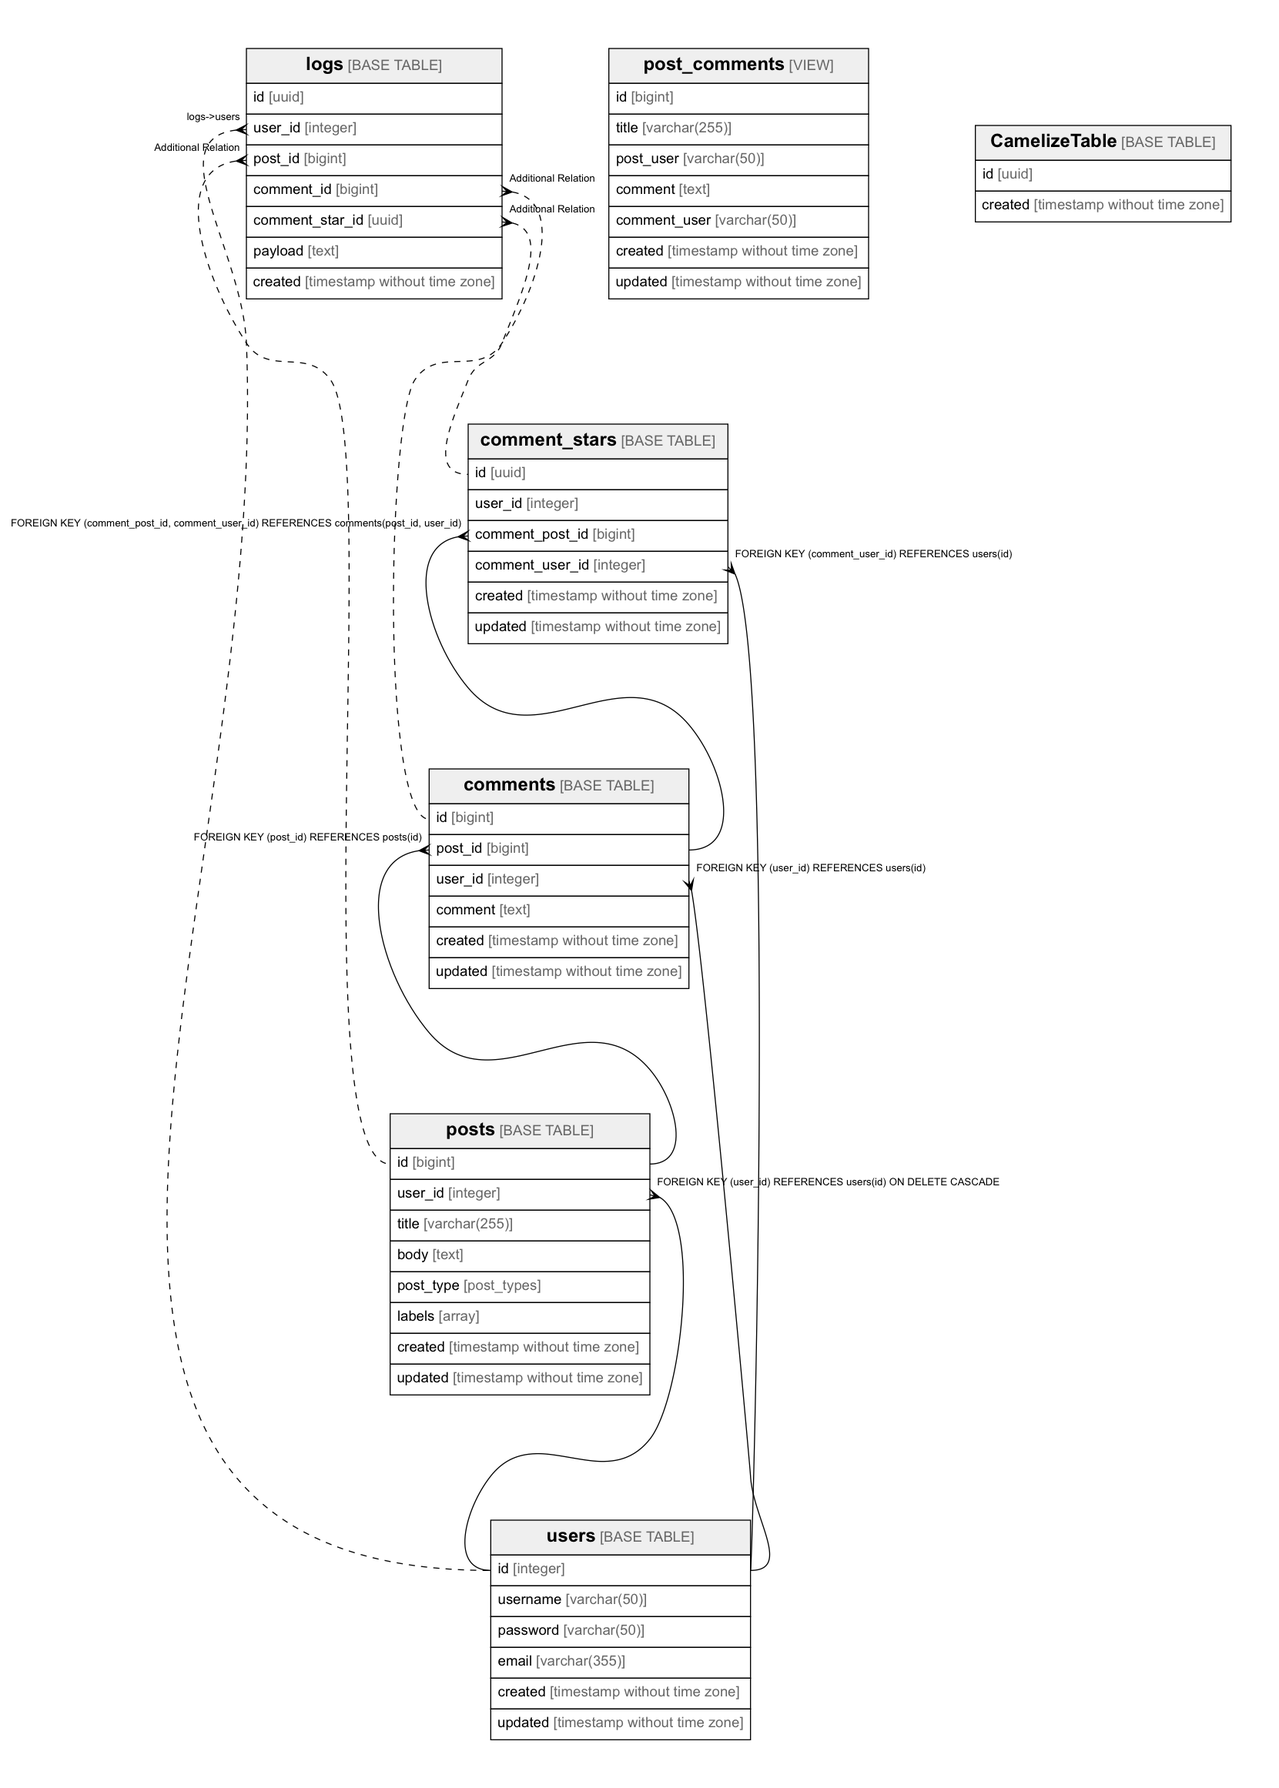
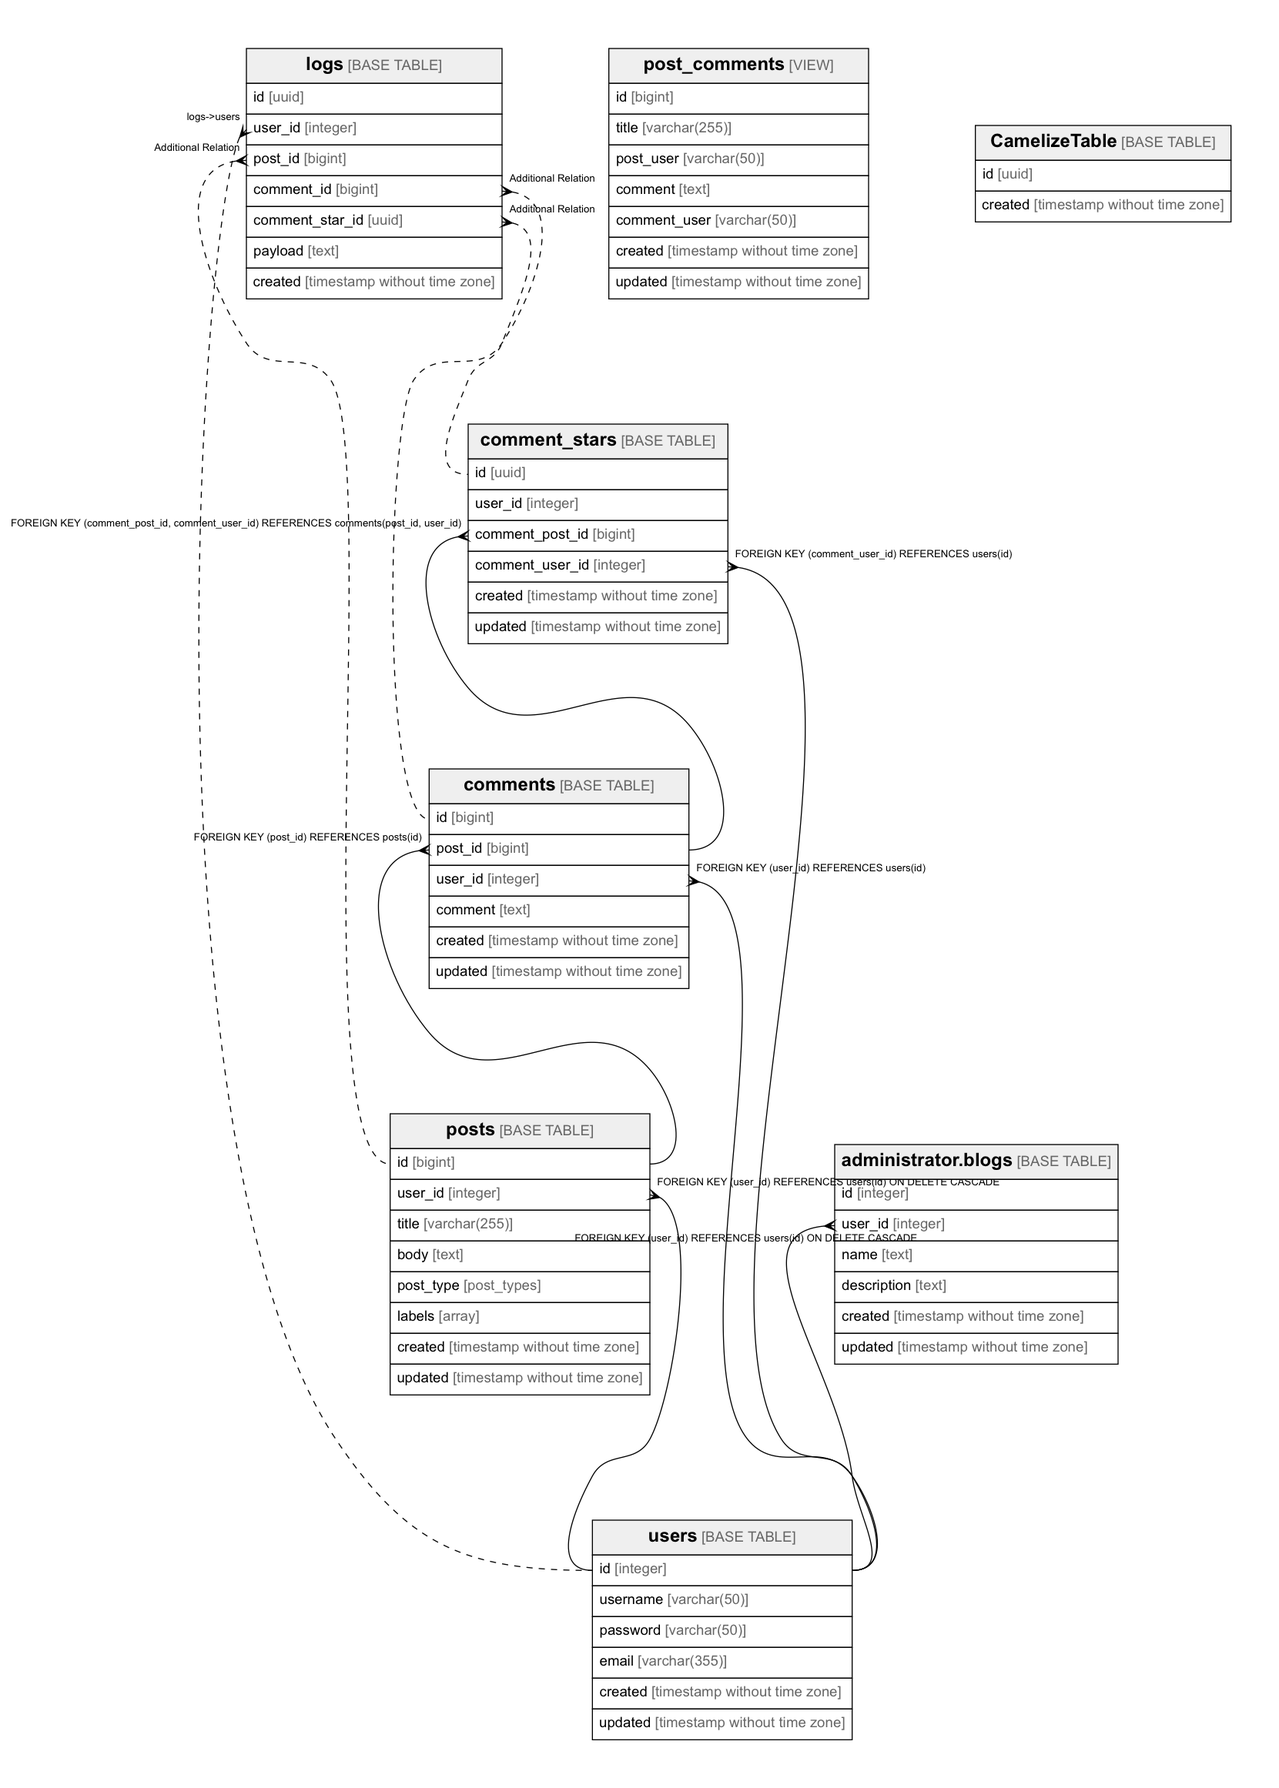
Support PostgreSQL non-default schema
Fix #28

Changed region(s): [[0.3685, 0.8368, 0.6755, 0.9918], [0.522, 0.6199, 0.8597, 0.7749], [0.5834, 0.8059, 0.6141, 0.8988]]

diff --git a/output/dot/templates.go b/output/dot/templates.go
@@ -6,24 +6,24 @@ import (
 	"github.com/jessevdk/go-assets"
 )
 
-var _Assets5bd148e6149bb9adcdddfcf8cc46d6e3047dbe26 = "digraph {{ .Table.Name }} {\n  // Config\n  graph [rankdir=TB, layout=dot, fontname=\"Arial\"];\n  node [shape=record, fontsize=14, margin=0.6, fontname=\"Arial\"];\n  edge [fontsize=10, labelfloat=false, splines=none, fontname=\"Arial\"];\n\n  // Tables\n  {{ .Table.Name }} [shape=none, label=<<table border=\"3\" cellborder=\"1\" cellspacing=\"0\" cellpadding=\"6\">\n                 <tr><td bgcolor=\"#EFEFEF\"><font face=\"Arial Bold\" point-size=\"18\">{{ .Table.Name | html }}</font> <font color=\"#666666\">[{{ .Table.Type | html }}]</font></td></tr>\n                 {{- range $ii, $c := .Table.Columns }}\n                 <tr><td port=\"{{ $c.Name | html }}\" align=\"left\">{{ $c.Name | html }} <font color=\"#666666\">[{{ $c.Type }}]</font></td></tr>\n                 {{- end }}\n              </table>>];\n  {{- range $i, $t := .Tables }}\n  {{ $t.Name }} [shape=none, label=<<table border=\"0\" cellborder=\"1\" cellspacing=\"0\" cellpadding=\"6\">\n                 <tr><td bgcolor=\"#EFEFEF\"><font face=\"Arial Bold\" point-size=\"18\">{{ $t.Name | html }}</font> <font color=\"#666666\">[{{ $t.Type | html }}]</font></td></tr>\n                 {{- range $ii, $c := $t.Columns }}\n                 <tr><td port=\"{{ $c.Name | html }}\" align=\"left\">{{ $c.Name | html }} <font color=\"#666666\">[{{ $c.Type | html }}]</font></td></tr>\n                 {{- end }}\n              </table>>];\n  {{- end }}\n\n  // Relations\n  {{- range $i, $r := .Relations }}\n  {{ $r.Table.Name }}:{{ $c := index $r.Columns 0 }}{{ $c.Name }} -> {{ $r.ParentTable.Name }}:{{ $pc := index $r.ParentColumns 0 }}{{ $pc.Name }} [dir=back, arrowtail=crow, {{ if $r.IsAdditional }}style =\"dashed\",{{ end }} taillabel=<<table cellpadding=\"5\" border=\"0\" cellborder=\"0\"><tr><td>{{ $r.Def | html }}</td></tr></table>>];\n  {{- end }}\n}\n"
-var _Assets21532ae17ad95976ac467eeaeab81f2bb1d537e4 = "digraph \"{{ .Schema.Name }}\" {\n  // Config\n  graph [rankdir=TB, layout=dot, fontname=\"Arial\"];\n  node [shape=record, fontsize=14, margin=0.6, fontname=\"Arial\"];\n  edge [fontsize=10, labelfloat=false, splines=none, fontname=\"Arial\"];\n\n  // Tables\n  {{- range $i, $t := .Schema.Tables }}\n  {{ $t.Name }} [shape=none, label=<<table border=\"0\" cellborder=\"1\" cellspacing=\"0\" cellpadding=\"6\">\n                 <tr><td bgcolor=\"#EFEFEF\"><font face=\"Arial Bold\" point-size=\"18\">{{ $t.Name | html }}</font> <font color=\"#666666\">[{{ $t.Type | html }}]</font></td></tr>\n                 {{- range $ii, $c := $t.Columns }}\n                 <tr><td port=\"{{ $c.Name | html }}\" align=\"left\">{{ $c.Name | html }} <font color=\"#666666\">[{{ $c.Type | html }}]</font></td></tr>\n                 {{- end }}\n              </table>>];\n  {{- end }}\n\n  // Relations\n  {{- range $j, $r := .Schema.Relations }}\n  {{ $r.Table.Name }}:{{ $c := index $r.Columns 0 }}{{ $c.Name }} -> {{ $r.ParentTable.Name }}:{{ $pc := index $r.ParentColumns 0 }}{{ $pc.Name }} [dir=back, arrowtail=crow, {{ if $r.IsAdditional }}style=\"dashed\",{{ end }} taillabel=<<table cellpadding=\"5\" border=\"0\" cellborder=\"0\"><tr><td>{{ $r.Def | html }}</td></tr></table>>];\n  {{- end }}\n}\n"
+var _Assets21532ae17ad95976ac467eeaeab81f2bb1d537e4 = "digraph \"{{ .Schema.Name }}\" {\n  // Config\n  graph [rankdir=TB, layout=dot, fontname=\"Arial\"];\n  node [shape=record, fontsize=14, margin=0.6, fontname=\"Arial\"];\n  edge [fontsize=10, labelfloat=false, splines=none, fontname=\"Arial\"];\n\n  // Tables\n  {{- range $i, $t := .Schema.Tables }}\n  \"{{ $t.Name }}\" [shape=none, label=<<table border=\"0\" cellborder=\"1\" cellspacing=\"0\" cellpadding=\"6\">\n                 <tr><td bgcolor=\"#EFEFEF\"><font face=\"Arial Bold\" point-size=\"18\">{{ $t.Name | html }}</font> <font color=\"#666666\">[{{ $t.Type | html }}]</font></td></tr>\n                 {{- range $ii, $c := $t.Columns }}\n                 <tr><td port=\"{{ $c.Name | html }}\" align=\"left\">{{ $c.Name | html }} <font color=\"#666666\">[{{ $c.Type | html }}]</font></td></tr>\n                 {{- end }}\n              </table>>];\n  {{- end }}\n\n  // Relations\n  {{- range $j, $r := .Schema.Relations }}\n  \"{{ $r.Table.Name }}\":{{ $c := index $r.Columns 0 }}{{ $c.Name }} -> \"{{ $r.ParentTable.Name }}\":{{ $pc := index $r.ParentColumns 0 }}{{ $pc.Name }} [dir=back, arrowtail=crow, {{ if $r.IsAdditional }}style=\"dashed\",{{ end }} taillabel=<<table cellpadding=\"5\" border=\"0\" cellborder=\"0\"><tr><td>{{ $r.Def | html }}</td></tr></table>>];\n  {{- end }}\n}\n"
+var _Assets5bd148e6149bb9adcdddfcf8cc46d6e3047dbe26 = "digraph \"{{ .Table.Name }}\" {\n  // Config\n  graph [rankdir=TB, layout=dot, fontname=\"Arial\"];\n  node [shape=record, fontsize=14, margin=0.6, fontname=\"Arial\"];\n  edge [fontsize=10, labelfloat=false, splines=none, fontname=\"Arial\"];\n\n  // Tables\n  \"{{ .Table.Name }}\" [shape=none, label=<<table border=\"3\" cellborder=\"1\" cellspacing=\"0\" cellpadding=\"6\">\n                 <tr><td bgcolor=\"#EFEFEF\"><font face=\"Arial Bold\" point-size=\"18\">{{ .Table.Name | html }}</font> <font color=\"#666666\">[{{ .Table.Type | html }}]</font></td></tr>\n                 {{- range $ii, $c := .Table.Columns }}\n                 <tr><td port=\"{{ $c.Name | html }}\" align=\"left\">{{ $c.Name | html }} <font color=\"#666666\">[{{ $c.Type }}]</font></td></tr>\n                 {{- end }}\n              </table>>];\n  {{- range $i, $t := .Tables }}\n  \"{{ $t.Name }}\" [shape=none, label=<<table border=\"0\" cellborder=\"1\" cellspacing=\"0\" cellpadding=\"6\">\n                 <tr><td bgcolor=\"#EFEFEF\"><font face=\"Arial Bold\" point-size=\"18\">{{ $t.Name | html }}</font> <font color=\"#666666\">[{{ $t.Type | html }}]</font></td></tr>\n                 {{- range $ii, $c := $t.Columns }}\n                 <tr><td port=\"{{ $c.Name | html }}\" align=\"left\">{{ $c.Name | html }} <font color=\"#666666\">[{{ $c.Type | html }}]</font></td></tr>\n                 {{- end }}\n              </table>>];\n  {{- end }}\n\n  // Relations\n  {{- range $i, $r := .Relations }}\n  \"{{ $r.Table.Name }}\":{{ $c := index $r.Columns 0 }}{{ $c.Name }} -> \"{{ $r.ParentTable.Name }}\":{{ $pc := index $r.ParentColumns 0 }}{{ $pc.Name }} [dir=back, arrowtail=crow, {{ if $r.IsAdditional }}style =\"dashed\",{{ end }} taillabel=<<table cellpadding=\"5\" border=\"0\" cellborder=\"0\"><tr><td>{{ $r.Def | html }}</td></tr></table>>];\n  {{- end }}\n}\n"
 
 // Assets returns go-assets FileSystem
-var Assets = assets.NewFileSystem(map[string][]string{"/": []string{"table.dot.tmpl", "schema.dot.tmpl"}}, map[string]*assets.File{
-	"/table.dot.tmpl": &assets.File{
-		Path:     "/table.dot.tmpl",
-		FileMode: 0x1a4,
-		Mtime:    time.Unix(1527750838, 1527750838424881150),
-		Data:     []byte(_Assets5bd148e6149bb9adcdddfcf8cc46d6e3047dbe26),
+var Assets = assets.NewFileSystem(map[string][]string{"/": []string{"schema.dot.tmpl", "table.dot.tmpl"}}, map[string]*assets.File{
+	"/": &assets.File{
+		Path:     "/",
+		FileMode: 0x800001ed,
+		Mtime:    time.Unix(1530288397, 1530288397000000000),
+		Data:     nil,
 	}, "/schema.dot.tmpl": &assets.File{
 		Path:     "/schema.dot.tmpl",
 		FileMode: 0x1a4,
-		Mtime:    time.Unix(1528193906, 1528193906825648193),
+		Mtime:    time.Unix(1530288397, 1530288397000000000),
 		Data:     []byte(_Assets21532ae17ad95976ac467eeaeab81f2bb1d537e4),
-	}, "/": &assets.File{
-		Path:     "/",
-		FileMode: 0x800001ed,
-		Mtime:    time.Unix(1528193906, 1528193906825330636),
-		Data:     nil,
+	}, "/table.dot.tmpl": &assets.File{
+		Path:     "/table.dot.tmpl",
+		FileMode: 0x1a4,
+		Mtime:    time.Unix(1530288232, 1530288232000000000),
+		Data:     []byte(_Assets5bd148e6149bb9adcdddfcf8cc46d6e3047dbe26),
 	}}, "")

diff --git a/output/md/templates.go b/output/md/templates.go
@@ -6,24 +6,24 @@ import (
 	"github.com/jessevdk/go-assets"
 )
 
-var _Assetsac44302fb6150a621aa9d04a0350aac972bf7e18 = "# {{ .Table.Name }}\n\n## Description\n\n{{ .Table.Comment -}}\n{{ if .Table.Def }}\n<details>\n<summary><strong>Table Definition</strong></summary>\n\n```sql\n{{ .Table.Def }}\n```\n\n</details>\n{{ end }}\n\n## Columns\n\n| Name | Type | Default | Nullable | Children | Parents | Comment |\n| ---- | ---- | ------- | -------- | -------- | ------- | ------- |\n{{- range $i, $c := .Table.Columns }}\n| {{ $c.Name }} | {{ $c.Type }} | {{ $c.Default.String }} | {{ $c.Nullable }} | {{ range $ii, $r := $c.ChildRelations -}}[{{ $r.Table.Name }}]({{ $r.Table.Name }}.md) {{ end }} | {{ range $ii, $r := $c.ParentRelations -}}[{{ $r.ParentTable.Name }}]({{ $r.ParentTable.Name }}.md) {{ end }} | {{ $c.Comment }} |\n{{- end }}\n\n## Constraints\n\n| Name | Type | Definition |\n| ---- | ---- | --- |\n{{- range $i, $c := .Table.Constraints }}\n| {{ $c.Name }} | {{ $c.Type }} | {{ $c.Def }} |\n{{- end }}\n\n## Indexes\n\n| Name | Definition |\n| ---- | --- |\n{{- range $i, $idx := .Table.Indexes }}\n| {{ $idx.Name }} | {{ $idx.Def }} |\n{{- end }}\n\n{{ if .er -}}\n## Relations\n\n![er]({{ .Table.Name }}.png)\n{{- end }}\n\n---\n\n> Generated by [tbls](https://github.com/k1LoW/tbls)"
 var _Assets43889384df1c6f74d764c29d91b9d5637eb46061 = "# {{ .Schema.Name }}\n\n## Tables\n\n| Name | Columns | Comment | Type |\n| ---- | ------- | ------- | ---- |\n{{- range $i, $t := .Schema.Tables }}\n| [{{ $t.Name }}]({{ $t.Name }}.md) | {{ len $t.Columns }} | {{ $t.Comment }} | {{ $t.Type }} |\n{{- end }}\n\n{{ if .er -}}\n## Relations\n\n![er](schema.png)\n{{- end }}\n\n---\n\n> Generated by [tbls](https://github.com/k1LoW/tbls)"
+var _Assetsac44302fb6150a621aa9d04a0350aac972bf7e18 = "# {{ .Table.Name }}\n\n## Description\n\n{{ .Table.Comment -}}\n{{ if .Table.Def }}\n<details>\n<summary><strong>Table Definition</strong></summary>\n\n```sql\n{{ .Table.Def }}\n```\n\n</details>\n{{ end }}\n\n## Columns\n\n| Name | Type | Default | Nullable | Children | Parents | Comment |\n| ---- | ---- | ------- | -------- | -------- | ------- | ------- |\n{{- range $i, $c := .Table.Columns }}\n| {{ $c.Name }} | {{ $c.Type }} | {{ $c.Default.String }} | {{ $c.Nullable }} | {{ range $ii, $r := $c.ChildRelations -}}[{{ $r.Table.Name }}]({{ $r.Table.Name }}.md) {{ end }} | {{ range $ii, $r := $c.ParentRelations -}}[{{ $r.ParentTable.Name }}]({{ $r.ParentTable.Name }}.md) {{ end }} | {{ $c.Comment }} |\n{{- end }}\n\n## Constraints\n\n| Name | Type | Definition |\n| ---- | ---- | --- |\n{{- range $i, $c := .Table.Constraints }}\n| {{ $c.Name }} | {{ $c.Type }} | {{ $c.Def }} |\n{{- end }}\n\n## Indexes\n\n| Name | Definition |\n| ---- | --- |\n{{- range $i, $idx := .Table.Indexes }}\n| {{ $idx.Name }} | {{ $idx.Def }} |\n{{- end }}\n\n{{ if .er -}}\n## Relations\n\n![er]({{ .Table.Name }}.png)\n{{- end }}\n\n---\n\n> Generated by [tbls](https://github.com/k1LoW/tbls)"
 
 // Assets returns go-assets FileSystem
-var Assets = assets.NewFileSystem(map[string][]string{"/": []string{"table.md.tmpl", "index.md.tmpl"}}, map[string]*assets.File{
-	"/": &assets.File{
-		Path:     "/",
-		FileMode: 0x800001ed,
-		Mtime:    time.Unix(1528245873, 1528245873902714502),
-		Data:     nil,
+var Assets = assets.NewFileSystem(map[string][]string{"/": []string{"index.md.tmpl", "table.md.tmpl"}}, map[string]*assets.File{
+	"/index.md.tmpl": &assets.File{
+		Path:     "/index.md.tmpl",
+		FileMode: 0x1a4,
+		Mtime:    time.Unix(1527684406, 1527684406000000000),
+		Data:     []byte(_Assets43889384df1c6f74d764c29d91b9d5637eb46061),
 	}, "/table.md.tmpl": &assets.File{
 		Path:     "/table.md.tmpl",
 		FileMode: 0x1a4,
-		Mtime:    time.Unix(1528245873, 1528245873902809342),
+		Mtime:    time.Unix(1528211857, 1528211857000000000),
 		Data:     []byte(_Assetsac44302fb6150a621aa9d04a0350aac972bf7e18),
-	}, "/index.md.tmpl": &assets.File{
-		Path:     "/index.md.tmpl",
-		FileMode: 0x1a4,
-		Mtime:    time.Unix(1527643999, 1527643999025465340),
-		Data:     []byte(_Assets43889384df1c6f74d764c29d91b9d5637eb46061),
+	}, "/": &assets.File{
+		Path:     "/",
+		FileMode: 0x800001ed,
+		Mtime:    time.Unix(1528211857, 1528211857000000000),
+		Data:     nil,
 	}}, "")

diff --git a/drivers/postgres/postgres.go b/drivers/postgres/postgres.go
@@ -10,6 +10,7 @@ import (
 )
 
 var reFK = regexp.MustCompile(`FOREIGN KEY \((.+)\) REFERENCES ([^\s]+)\s?\((.+)\)`)
+var defaultSchemaName = "public"
 
 // Postgres struct
 type Postgres struct{}
@@ -19,10 +20,10 @@ func (p *Postgres) Analyze(db *sql.DB, s *schema.Schema) error {
 
 	// tables
 	tableRows, err := db.Query(`
-SELECT DISTINCT cls.oid AS oid, cls.relname AS table_name, tbl.table_type AS table_type
+SELECT DISTINCT cls.oid AS oid, cls.relname AS table_name, tbl.table_type AS table_type, tbl.table_schema AS table_schema
 FROM pg_catalog.pg_class cls
 INNER JOIN pg_namespace ns ON cls.relnamespace = ns.oid
-INNER JOIN (SELECT table_name, table_type
+INNER JOIN (SELECT table_name, table_type, table_schema
 FROM information_schema.tables
 WHERE table_schema != 'pg_catalog' AND table_schema != 'information_schema'
 AND table_catalog = $1) tbl ON cls.relname = tbl.table_name
@@ -37,16 +38,23 @@ ORDER BY oid`, s.Name)
 	tables := []*schema.Table{}
 	for tableRows.Next() {
 		var (
-			tableOid  string
-			tableName string
-			tableType string
+			tableOid    string
+			tableName   string
+			tableType   string
+			tableSchema string
 		)
-		err := tableRows.Scan(&tableOid, &tableName, &tableType)
+		err := tableRows.Scan(&tableOid, &tableName, &tableType, &tableSchema)
 		if err != nil {
 			return err
 		}
+
+		name := tableName
+		if tableSchema != defaultSchemaName {
+			name = fmt.Sprintf("%s.%s", tableSchema, tableName)
+		}
+
 		table := &schema.Table{
-			Name: tableName,
+			Name: name,
 			Type: tableType,
 		}
 
@@ -56,7 +64,8 @@ SELECT pd.description as comment
 FROM pg_stat_user_tables AS ps, pg_description AS pd
 WHERE ps.relid=pd.objoid
 AND pd.objsubid=0
-AND ps.relname = $1`, tableName)
+AND ps.relname = $1
+AND ps.schemaname = $2`, tableName, tableSchema)
 		defer tableCommentRows.Close()
 		if err != nil {
 			return err
@@ -76,8 +85,9 @@ AND ps.relname = $1`, tableName)
 			viewDefRows, err := db.Query(`
 SELECT view_definition FROM information_schema.views
 WHERE table_catalog = $1
-AND table_name = $2;
-		`, s.Name, tableName)
+AND table_name = $2
+AND table_schema = $3;
+		`, s.Name, tableName, tableSchema)
 			defer viewDefRows.Close()
 			if err != nil {
 				return err
@@ -102,10 +112,10 @@ JOIN pg_class c ON ((c.oid = x.indrelid)))
 JOIN pg_class i ON ((i.oid = x.indexrelid)))
 LEFT JOIN pg_namespace n ON ((n.oid = c.relnamespace))))
 WHERE ((c.relkind = ANY (ARRAY['r'::"char", 'm'::"char"])) AND (i.relkind = 'i'::"char"))
-AND n.nspname != 'pg_catalog'
 AND c.relname = $1
+AND n.nspname = $2
 ORDER BY x.indexrelid
-`, tableName)
+`, tableName, tableSchema)
 		defer indexRows.Close()
 		if err != nil {
 			return err
@@ -135,7 +145,8 @@ SELECT pc.conname AS name, pg_get_constraintdef(pc.oid) AS def, contype AS type
 FROM pg_constraint AS pc
 LEFT JOIN pg_stat_user_tables AS ps ON ps.relid = pc.conrelid
 WHERE ps.relname = $1
-ORDER BY pc.conrelid`, tableName)
+AND ps.schemaname = $2
+ORDER BY pc.conrelid`, tableName, tableSchema)
 		defer constraintRows.Close()
 		if err != nil {
 			return err
@@ -176,7 +187,8 @@ WHERE ps.relid=pd.objoid
 AND pd.objsubid != 0
 AND pd.objoid=pa.attrelid
 AND pd.objsubid=pa.attnum
-AND ps.relname = $1`, tableName)
+AND ps.relname = $1
+AND ps.schemaname = $2`, tableName, tableSchema)
 		defer columnCommentRows.Close()
 		if err != nil {
 			return err
@@ -200,8 +212,9 @@ AND ps.relname = $1`, tableName)
 SELECT column_name, column_default, is_nullable, data_type, udt_name, character_maximum_length
 FROM information_schema.columns
 WHERE table_name = $1
+AND table_schema = $2
 ORDER BY ordinal_position
-`, tableName)
+`, tableName, tableSchema)
 		defer columnRows.Close()
 		if err != nil {
 			return err

diff --git a/output/dot/dot_test.go b/output/dot/dot_test.go
@@ -2,8 +2,9 @@ package dot
 
 import (
 	"bytes"
-	"github.com/k1LoW/tbls/schema"
 	"testing"
+
+	"github.com/k1LoW/tbls/schema"
 )
 
 func TestOutputSchema(t *testing.T) {
@@ -66,19 +67,19 @@ func TestOutputSchema(t *testing.T) {
   edge [fontsize=10, labelfloat=false, splines=none, fontname="Arial"];
 
   // Tables
-  a [shape=none, label=<<table border="0" cellborder="1" cellspacing="0" cellpadding="6">
+  "a" [shape=none, label=<<table border="0" cellborder="1" cellspacing="0" cellpadding="6">
                  <tr><td bgcolor="#EFEFEF"><font face="Arial Bold" point-size="18">a</font> <font color="#666666">[]</font></td></tr>
                  <tr><td port="a" align="left">a <font color="#666666">[]</font></td></tr>
                  <tr><td port="a2" align="left">a2 <font color="#666666">[]</font></td></tr>
               </table>>];
-  b [shape=none, label=<<table border="0" cellborder="1" cellspacing="0" cellpadding="6">
+  "b" [shape=none, label=<<table border="0" cellborder="1" cellspacing="0" cellpadding="6">
                  <tr><td bgcolor="#EFEFEF"><font face="Arial Bold" point-size="18">b</font> <font color="#666666">[]</font></td></tr>
                  <tr><td port="b" align="left">b <font color="#666666">[]</font></td></tr>
                  <tr><td port="b2" align="left">b2 <font color="#666666">[]</font></td></tr>
               </table>>];
 
   // Relations
-  a:a -> b:b [dir=back, arrowtail=crow,  taillabel=<<table cellpadding="5" border="0" cellborder="0"><tr><td></td></tr></table>>];
+  "a":a -> "b":b [dir=back, arrowtail=crow,  taillabel=<<table cellpadding="5" border="0" cellborder="0"><tr><td></td></tr></table>>];
 }
 `
 	actual := buf.String()

diff --git a/cmd/doc.go b/cmd/doc.go
@@ -22,15 +22,16 @@ package cmd
 
 import (
 	"fmt"
+	"io/ioutil"
+	"os"
+	"os/exec"
+	"path/filepath"
+
 	"github.com/k1LoW/tbls/db"
 	"github.com/k1LoW/tbls/output/dot"
 	"github.com/k1LoW/tbls/output/md"
 	"github.com/k1LoW/tbls/schema"
 	"github.com/spf13/cobra"
-	"io/ioutil"
-	"os"
-	"os/exec"
-	"path/filepath"
 )
 
 // noViz

diff --git a/output/md/md.go b/output/md/md.go
@@ -3,12 +3,13 @@ package md
 import (
 	"bytes"
 	"fmt"
-	"github.com/k1LoW/tbls/schema"
-	"github.com/sergi/go-diff/diffmatchpatch"
 	"io/ioutil"
 	"os"
 	"path/filepath"
 	"text/template"
+
+	"github.com/k1LoW/tbls/schema"
+	"github.com/sergi/go-diff/diffmatchpatch"
 )
 
 // Output generate markdown files.

diff --git a/db/db.go b/db/db.go
@@ -3,11 +3,12 @@ package db
 import (
 	"database/sql"
 	"fmt"
+	"strings"
+
 	"github.com/k1LoW/tbls/drivers/mysql"
 	"github.com/k1LoW/tbls/drivers/postgres"
 	"github.com/k1LoW/tbls/schema"
 	"github.com/xo/dburl"
-	"strings"
 )
 
 // Driver is the common interface for database driver

diff --git a/main.go b/main.go
@@ -22,8 +22,9 @@ package main
 
 import (
 	_ "github.com/go-sql-driver/mysql"
-	"github.com/k1LoW/tbls/cmd"
 	_ "github.com/lib/pq"
+
+	"github.com/k1LoW/tbls/cmd"
 )
 
 //go:generate go-assets-builder -p md -s="/output/md/templates" output/md/templates -o output/md/templates.go

diff --git a/drivers/mysql/mysql.go b/drivers/mysql/mysql.go
@@ -3,9 +3,10 @@ package mysql
 import (
 	"database/sql"
 	"fmt"
-	"github.com/k1LoW/tbls/schema"
 	"regexp"
 	"strings"
+
+	"github.com/k1LoW/tbls/schema"
 )
 
 var reFK = regexp.MustCompile(`FOREIGN KEY \((.+)\) REFERENCES ([^\s]+)\s?\((.+)\)`)

diff --git a/output/dot/dot.go b/output/dot/dot.go
@@ -1,11 +1,12 @@
 package dot
 
 import (
-	"github.com/k1LoW/tbls/schema"
 	"io"
 	"io/ioutil"
 	"path/filepath"
 	"text/template"
+
+	"github.com/k1LoW/tbls/schema"
 )
 
 // OutputSchema generate dot format for full relation.

diff --git a/drivers/mysql/mysql_test.go b/drivers/mysql/mysql_test.go
@@ -2,11 +2,12 @@ package mysql
 
 import (
 	"database/sql"
+	"os"
+	"testing"
+
 	_ "github.com/go-sql-driver/mysql"
 	"github.com/k1LoW/tbls/schema"
 	"github.com/xo/dburl"
-	"os"
-	"testing"
 )
 
 var s *schema.Schema

diff --git a/drivers/postgres/postgres_test.go b/drivers/postgres/postgres_test.go
@@ -2,11 +2,12 @@ package postgres
 
 import (
 	"database/sql"
+	"os"
+	"testing"
+
 	"github.com/k1LoW/tbls/schema"
 	_ "github.com/lib/pq"
 	"github.com/xo/dburl"
-	"os"
-	"testing"
 )
 
 var s *schema.Schema
